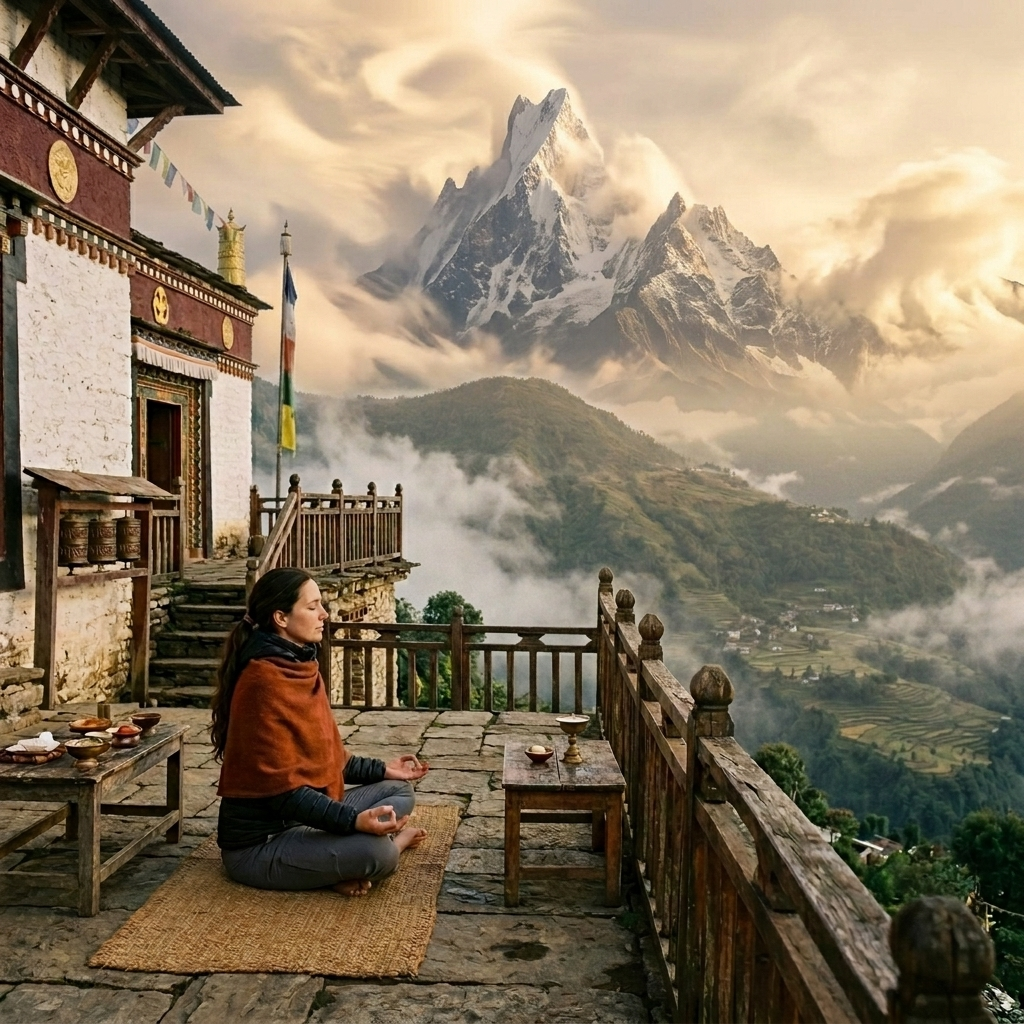
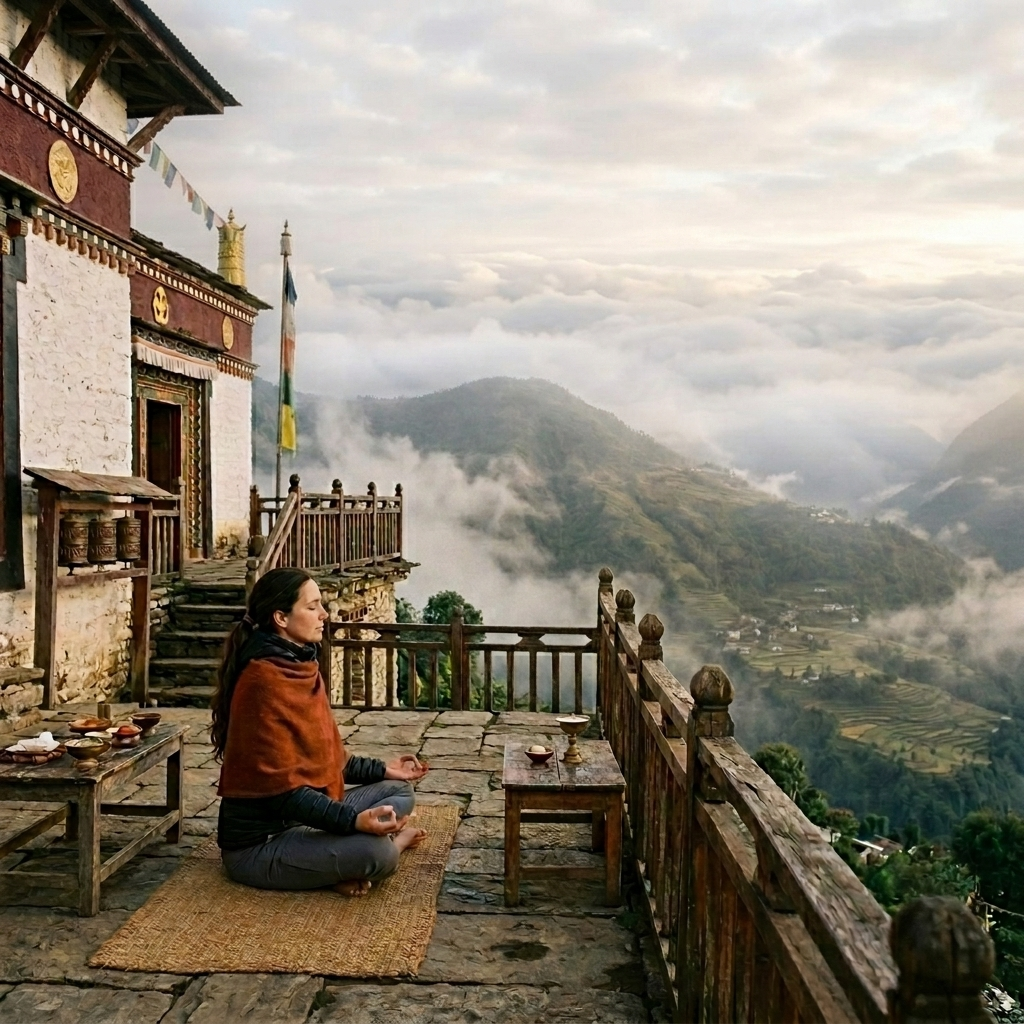
minior updated with the phtos and featured titles

diff --git a/src/components/HomeContent.tsx b/src/components/HomeContent.tsx
@@ -360,6 +360,10 @@ const HomeContent: React.FC<HomeContentProps> = ({ heroImageSrc, heroImageSrcSet
                                                 .replace("Inner Journey to the Heart of the Nepalese Himalayas", "Inner Journey")
                                                 .replace("Bisket Jatra Festival & Nepalese New Year", "Bisket Jatra")
                                                 .replace("Nepal: Colors & Contrasts", "Colors & Contrasts")
+                                                .replace("Nepal’s Timeless Heritage and Untamed Wilderness", "Timeless Heritage")
+                                                .replace("Patrimoine intemporel et nature indomptée du Népal", "Patrimoine Intemporel")
+                                                .replace("Color and Contrast to Nepal and its Sacred Festivals", "Colors & Contrasts")
+                                                .replace("Couleur et contraste au Népal et ses festivals sacrés", "Couleurs & Contrastes")
                                             }
                                         </span>
                                     </button>
